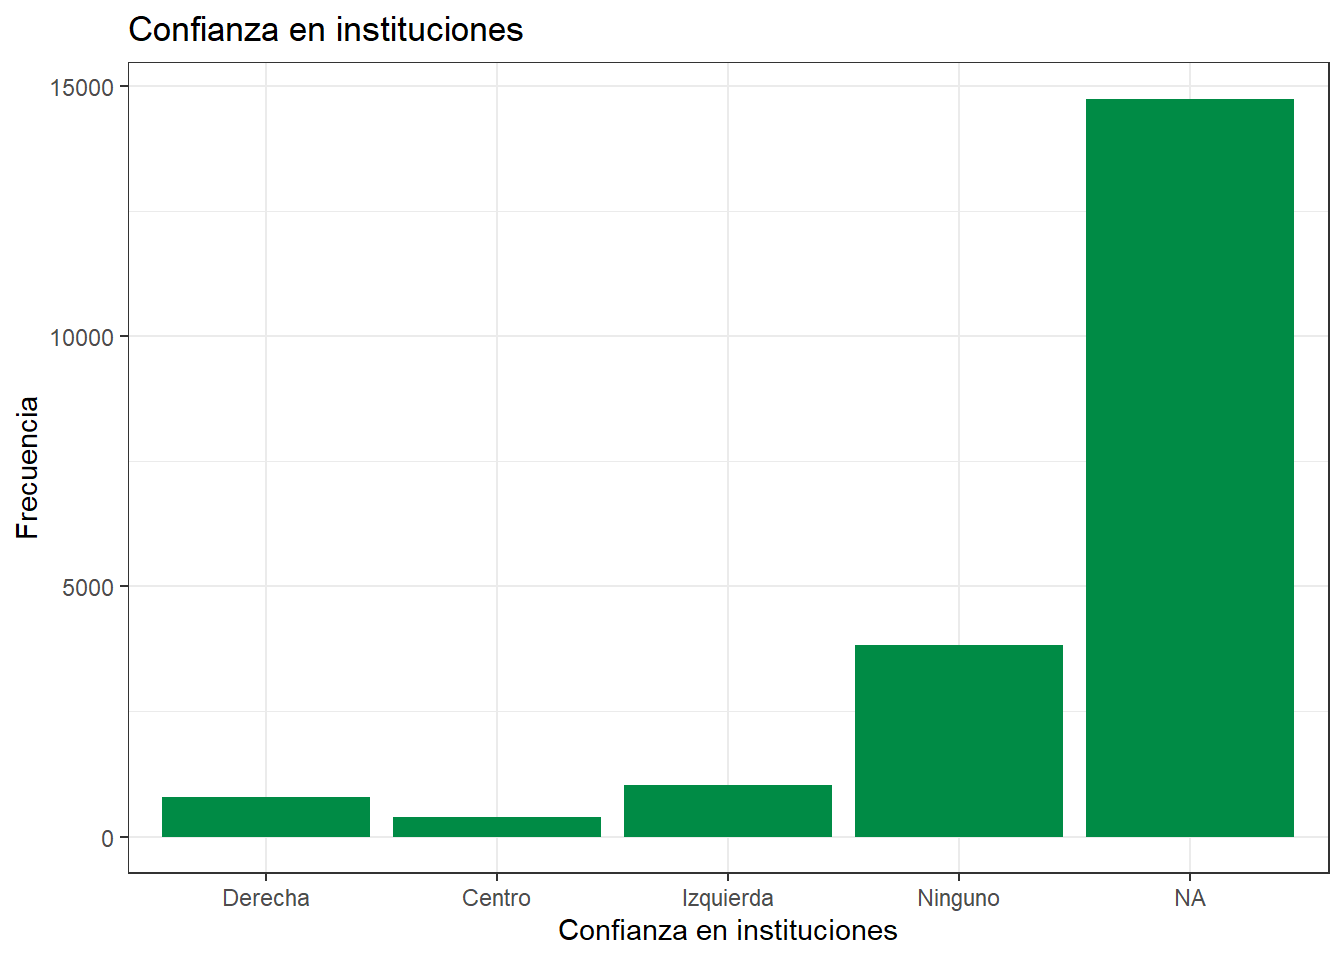
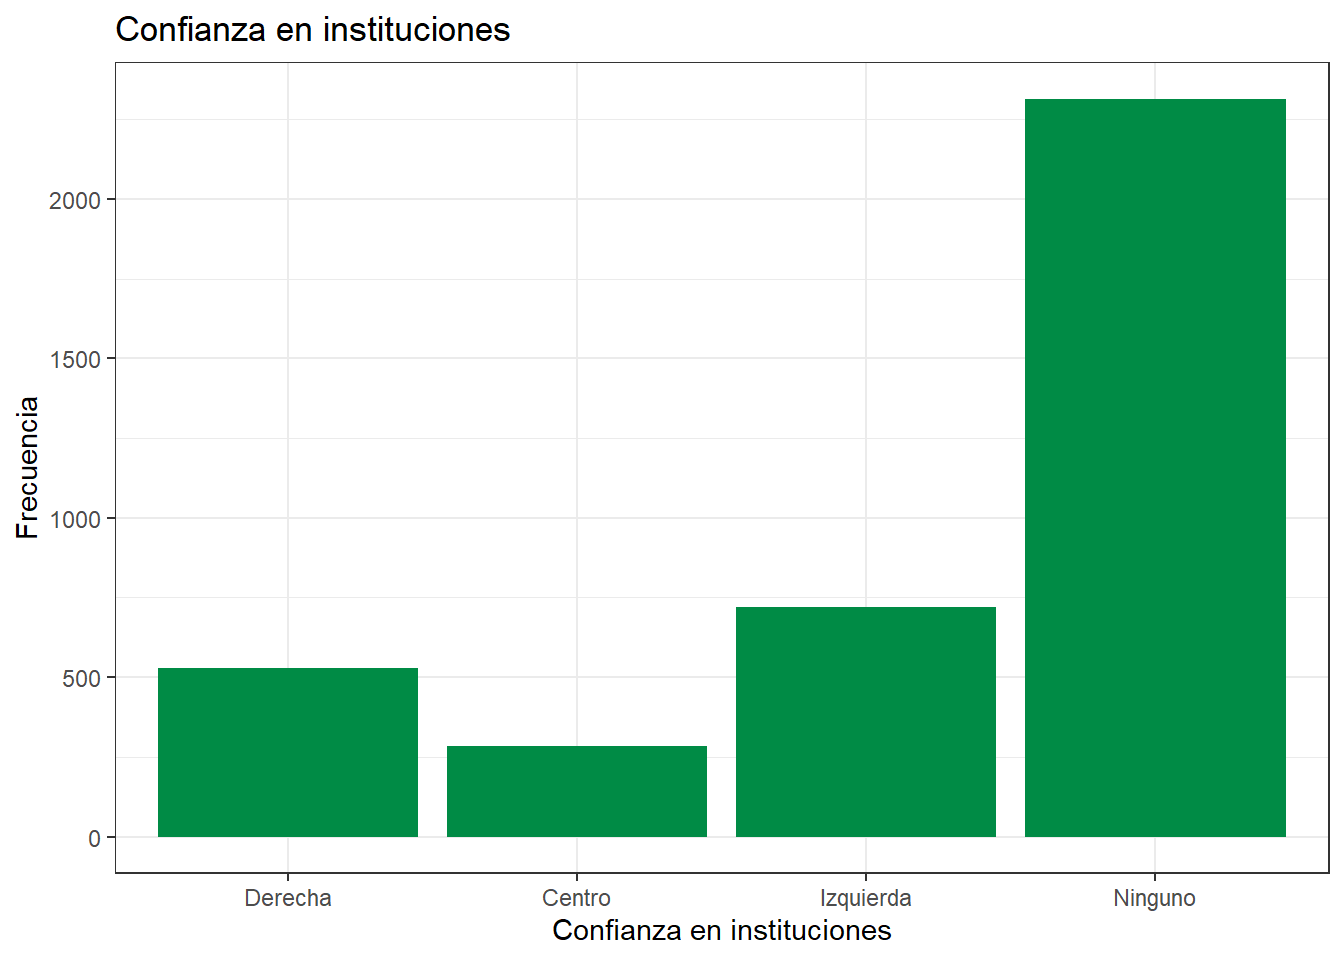
Colocar el Quarto Bonito
a

diff --git a/Trabajo_1.html b/Trabajo_1.html
@@ -8,7 +8,7 @@
 
 <meta name="author" content="Tomás Péndola y Erick Quezada">
 
-<title>Percpecion de Inseguridad Segun Orientacion Politica</title>
+<title>Percepcion de Inseguridad Segun Orientacion Politica</title>
 <style>
 code{white-space: pre-wrap;}
 span.smallcaps{font-variant: small-caps;}
@@ -50,7 +50,7 @@ ul.task-list li input[type="checkbox"] {
 
 <header id="title-block-header" class="quarto-title-block default">
 <div class="quarto-title">
-<h1 class="title">Percpecion de Inseguridad Segun Orientacion Politica</h1>
+<h1 class="title">Percepcion de Inseguridad Segun Orientacion Politica</h1>
 <p class="subtitle lead">R para el análisis de datos</p>
 </div>
 
@@ -82,16 +82,25 @@ ul.task-list li input[type="checkbox"] {
 
 <section id="introducción" class="level1">
 <h1>Introducción</h1>
-<p>En el presente trabajo se buscara analizar la percepción de inseguridad según la orientación política con la confianza en los medios, en el clima actual político Chileno donde la polarización aumenta más con los candidatos a presidente en futuras elecciones en una especie de precampaña muchos usan el tema de la seguridad como un elemento que debe atenderse con severidad y con celeridad, creemos que es importante preguntarse ¿Qué tanto incide en el percepciones de inseguridad según la orientación política y la confianza en los medios?</p>
-<p>Para este caso, se usaran datos extraidas de la base de datos del ELSOC de la ola del</p>
-<p>(Falta Ingresar Citas)</p>
+<p>En el contexto actual chileno, donde nos acercamos a las próximas elecciones presidenciales, se han intensificado los discursos mediáticos por parte de los distintos sectores políticos que buscan llegar al sillón presidencial en 2026. Múltiples debates, entrevistas y comentarios han comenzado a circular entre la población chilena, abordando tópicos troncales en las futuras agendas y dejando entrever distintas posturas ideológicas y pragmáticas frente a ellos.</p>
+<p>En este escenario, decidimos investigar una de las mayores preocupaciones de la ciudadanía. Tal como indica el estudio <em>Preocupaciones del Mundo</em> de la empresa de investigación Ipsos (2024), el sondeo arrojó que en Chile el tema del crimen y la violencia lidera la lista de preocupaciones con un 69%.</p>
+<p>Chile lleva tiempo enfrentando un drama importante en torno a este tópico, lo que se refleja en la amplia literatura existente, especialmente desde enfoques que lo abordan mediante variables sociodemográficas. Sin embargo, retomando el actual contexto electoral, nos interesa en particular analizar la incidencia de los medios de comunicación tradicionales, los cuales se encargan de divulgar las agendas de los candidatos y que, estos no solo informan sino que también ayudan a construir marcos interpretativos de la realidad desde una posicion aventajada (Van Djik, 2016). Al mismo tiempo, buscamos entender cómo se articula esta percepción de inseguridad en relación con la tendencia política de la ciudadanía.</p>
+<p>Al respecto, autores como Medina (2003) han señalado que aparentemente existe una relación directa entre poseer una posición más de derecha y el miedo al delito (p.&nbsp;11). Sin embargo, esta relación no implica necesariamente una causalidad, sino que podría estar enmarcada en un concepto más complejo de “percepción emocional”. Tal como indican Muratori y Zubieta (2015), la tendencia política influye en un conjunto de percepciones que terminan delegando en “problemáticas de relevancia social, como la inseguridad y el miedo al delito” (p.&nbsp;17).</p>
+<p>Es por ello que el presente trabajo buscará analizar la percepción de inseguridad según la orientación política y la confianza en los medios. Esto, enmarcado en el clima político actual chileno, donde la polarización entre los sectores políticos aumenta de cara a las próximas elecciones presidenciales. Por otro lado, en esta suerte de precampaña, muchos discursos mediáticos ofrecidos por los candidatos han puesto especial foco en el tema de la seguridad, presentándolo como un asunto que debe ser atendido cuanto antes. Consideramos, entonces, relevante comprender qué tanto inciden en la percepción de inseguridad variables como la orientación política y la confianza en los medios de comunicación, ya que planteamos como hipótesis que aquellos encuestados con una mayor tendencia política hacia la derecha y con niveles más altos de confianza en los medios tenderán a mantener mayores niveles de percepción de inseguridad.</p>
+<p>Para ello, se analizarán los datos recogidos por el COES a través de su estudio ELSOC del año 2023, centrando el análisis en las variables de “Orientación política”, “Confianza en los medios” y “Percepción de seguridad del barrio”. La elección de esta base responde a su carácter representativo a nivel nacional y a su solidez metodológica, lo que permite explorar con mayor profundidad las relaciones entre posicionamiento político, confianza institucional y percepciones subjetivas de inseguridad.</p>
 </section>
 <section id="variables" class="level1">
 <h1>Variables</h1>
-<p>En esta caso se usaran las variables orientacion politica (R13_ideol_01), confianza en medios (c05_12) y percecion de Seguridad del barrio (t10)</p>
-<p>Pero primero debemos cargar tanto los paquetes de los cuales aremos uso junto</p>
+<p>Como se mencionó anteriormente, las variables a utilizar serán las siguientes:</p>
+<ol type="1">
+<li>Posición Política (r13_ideol_01)</li>
+<li>Confianza en los medios de comunicación tradicionales (c05_12)</li>
+<li>Percepción de inseguridad en el barrio de residencia (t10_p).</li>
+</ol>
+<p>Para efectos prácticos, se modificaron las categorias de respuesta de la variable r13_ideol_01 en (Derecha, Centro, Izquierda, Ningúno).</p>
 <p>Esto lo podemos repetir para la carga de la base de datos y el procesamiento de los datos.</p>
-<p>Ahora con la base datos abierta procederemos a describr las variables que se usaran para este trabajo</p>
+<p>Ahora con la base datos abierta procederemos a describr las variables que se usaran para este trabajo, se procedera a Opercionalizar las variables</p>
+<p>Se Agrupan los no sabe no responde dentro de los NA y ahora se procederan a ser eliminados</p>
 <section id="descripción-de-variables" class="level2">
 <h2 class="anchored" data-anchor-id="descripción-de-variables">Descripción de variables</h2>
 <p>En este caso, se seleccionaron las variables:</p>
@@ -112,28 +121,23 @@ ul.task-list li input[type="checkbox"] {
 <tbody>
 <tr class="odd">
 <td style="text-align: left;">Derecha</td>
-<td style="text-align: right;">783</td>
-<td style="text-align: right;">3.77</td>
+<td style="text-align: right;">530</td>
+<td style="text-align: right;">13.77</td>
 </tr>
 <tr class="even">
 <td style="text-align: left;">Centro</td>
-<td style="text-align: right;">386</td>
-<td style="text-align: right;">1.86</td>
+<td style="text-align: right;">285</td>
+<td style="text-align: right;">7.40</td>
 </tr>
 <tr class="odd">
 <td style="text-align: left;">Izquierda</td>
-<td style="text-align: right;">1022</td>
-<td style="text-align: right;">4.92</td>
+<td style="text-align: right;">720</td>
+<td style="text-align: right;">18.70</td>
 </tr>
 <tr class="even">
 <td style="text-align: left;">Ninguno</td>
-<td style="text-align: right;">3819</td>
-<td style="text-align: right;">18.40</td>
-</tr>
-<tr class="odd">
-<td style="text-align: left;">NA</td>
-<td style="text-align: right;">14751</td>
-<td style="text-align: right;">71.05</td>
+<td style="text-align: right;">2315</td>
+<td style="text-align: right;">60.13</td>
 </tr>
 </tbody>
 </table>
@@ -146,155 +150,74 @@ ul.task-list li input[type="checkbox"] {
 <li>c05_12: Grado de Confianza: en los medios de comunicacion tradicionales</li>
 </ul>
 <div class="cell">
-<div class="cell-output cell-output-stdout">
-<pre><code>Percepcion de seguridad del barrio (x) &lt;numeric&gt; 
-# total N=20761 valid N=19602 mean=1.94 sd=36.86
+<div class="cell-output-display">
+<table class="table table-striped table-hover caption-top table-sm small" data-quarto-postprocess="true">
+<caption>Tabla de Descriptivos para la Confianza en los Medios</caption>
+<thead>
+<tr class="header">
+<th style="text-align: left;" data-quarto-table-cell-role="th">Variable</th>
+<th style="text-align: right;" data-quarto-table-cell-role="th">media</th>
+<th style="text-align: right;" data-quarto-table-cell-role="th">mediana</th>
+<th style="text-align: right;" data-quarto-table-cell-role="th">sd</th>
+<th style="text-align: right;" data-quarto-table-cell-role="th">min</th>
+<th style="text-align: right;" data-quarto-table-cell-role="th">max</th>
+<th style="text-align: right;" data-quarto-table-cell-role="th">n</th>
+</tr>
+</thead>
+<tbody>
+<tr class="odd">
+<td style="text-align: left;">c05_12</td>
+<td style="text-align: right;">2.26026</td>
+<td style="text-align: right;">2</td>
+<td style="text-align: right;">1.0549</td>
+<td style="text-align: right;">1</td>
+<td style="text-align: right;">5</td>
+<td style="text-align: right;">3850</td>
+</tr>
+</tbody>
+</table>
 
-Value |                                 Label |    N | Raw % | Valid % | Cum. %
--------------------------------------------------------------------------------
- -999 |                           No Responde |   11 |  0.05 |    0.06 |   0.06
- -888 |                               No Sabe |   14 |  0.07 |    0.07 |   0.13
- -777 |       Valor perdido por error tecnico |    0 |  0.00 |    0.00 |   0.13
- -666 | Valor perdido por encuesta incompleta |   10 |  0.05 |    0.05 |   0.18
-    1 |                          Muy inseguro |  919 |  4.43 |    4.69 |   4.87
-    2 |                              Inseguro | 2919 | 14.06 |   14.89 |  19.76
-    3 |                 Ni seguro ni inseguro | 3843 | 18.51 |   19.61 |  39.36
-    4 |                                Seguro | 9696 | 46.70 |   49.46 |  88.83
-    5 |                            Muy seguro | 2190 | 10.55 |   11.17 | 100.00
- &lt;NA&gt; |                                  &lt;NA&gt; | 1159 |  5.58 |    &lt;NA&gt; |   &lt;NA&gt;</code></pre>
+
 </div>
 </div>
 <ul>
 <li>t10: Percepcion de seguridad del barrio</li>
 </ul>
 <div class="cell">
-<div class="cell-output cell-output-stdout">
-<pre><code>Percepcion de seguridad del barrio (x) &lt;numeric&gt; 
-# total N=20761 valid N=19567 mean=3.48 sd=1.03
+<div class="cell-output-display">
+<table class="table table-striped table-hover caption-top table-sm small" data-quarto-postprocess="true">
+<caption>Tabla de Descriptivos para la Percepcion de Seguridad en el Barrio</caption>
+<thead>
+<tr class="header">
+<th style="text-align: left;" data-quarto-table-cell-role="th">Variable</th>
+<th style="text-align: right;" data-quarto-table-cell-role="th">media</th>
+<th style="text-align: right;" data-quarto-table-cell-role="th">mediana</th>
+<th style="text-align: right;" data-quarto-table-cell-role="th">sd</th>
+<th style="text-align: right;" data-quarto-table-cell-role="th">min</th>
+<th style="text-align: right;" data-quarto-table-cell-role="th">max</th>
+<th style="text-align: right;" data-quarto-table-cell-role="th">n</th>
+</tr>
+</thead>
+<tbody>
+<tr class="odd">
+<td style="text-align: left;">t10</td>
+<td style="text-align: right;">3.531948</td>
+<td style="text-align: right;">4</td>
+<td style="text-align: right;">1.008739</td>
+<td style="text-align: right;">1</td>
+<td style="text-align: right;">5</td>
+<td style="text-align: right;">3850</td>
+</tr>
+</tbody>
+</table>
 
-Value |                                 Label |    N | Raw % | Valid % | Cum. %
--------------------------------------------------------------------------------
- -999 |                           No Responde |    0 |  0.00 |    0.00 |   0.00
- -888 |                               No Sabe |    0 |  0.00 |    0.00 |   0.00
- -777 |       Valor perdido por error tecnico |    0 |  0.00 |    0.00 |   0.00
- -666 | Valor perdido por encuesta incompleta |    0 |  0.00 |    0.00 |   0.00
-    1 |                          Muy inseguro |  919 |  4.43 |    4.70 |   4.70
-    2 |                              Inseguro | 2919 | 14.06 |   14.92 |  19.61
-    3 |                 Ni seguro ni inseguro | 3843 | 18.51 |   19.64 |  39.25
-    4 |                                Seguro | 9696 | 46.70 |   49.55 |  88.81
-    5 |                            Muy seguro | 2190 | 10.55 |   11.19 | 100.00
- &lt;NA&gt; |                                  &lt;NA&gt; | 1194 |  5.75 |    &lt;NA&gt; |   &lt;NA&gt;</code></pre>
+
 </div>
 </div>
-<p>igualmente se armara una tabla de descriptivos de las variables lineares</p>
-<p>Iniciamos con la Variable de Grao de Confianza en los Medios de Comunicacion</p>
-<div class="cell">
-<div class="cell-output-display">
-<table class="caption-top table table-sm table-striped small">
-<caption>Tabla de Frecuencia de Confianza en los Medios de Comunicacion</caption>
-<thead>
-<tr class="header">
-<th style="text-align: right;">c05_12</th>
-<th style="text-align: right;">n</th>
-<th style="text-align: left;">percent</th>
-<th style="text-align: left;">valid_percent</th>
-</tr>
-</thead>
-<tbody>
-<tr class="odd">
-<td style="text-align: right;">1</td>
-<td style="text-align: right;">1350</td>
-<td style="text-align: left;">6.50%</td>
-<td style="text-align: left;">27.51%</td>
-</tr>
-<tr class="even">
-<td style="text-align: right;">2</td>
-<td style="text-align: right;">1462</td>
-<td style="text-align: left;">7.04%</td>
-<td style="text-align: left;">29.79%</td>
-</tr>
-<tr class="odd">
-<td style="text-align: right;">3</td>
-<td style="text-align: right;">1480</td>
-<td style="text-align: left;">7.13%</td>
-<td style="text-align: left;">30.16%</td>
-</tr>
-<tr class="even">
-<td style="text-align: right;">4</td>
-<td style="text-align: right;">470</td>
-<td style="text-align: left;">2.26%</td>
-<td style="text-align: left;">9.58%</td>
-</tr>
-<tr class="odd">
-<td style="text-align: right;">5</td>
-<td style="text-align: right;">145</td>
-<td style="text-align: left;">0.70%</td>
-<td style="text-align: left;">2.95%</td>
-</tr>
-<tr class="even">
-<td style="text-align: right;">NA</td>
-<td style="text-align: right;">15854</td>
-<td style="text-align: left;">76.36%</td>
-<td style="text-align: left;">-</td>
-</tr>
-</tbody>
-</table>
-</div>
-</div>
-<p>Ahora hacemos lo mismo con la variable de Percepcion de inseguridad en el Barrio</p>
-<div class="cell">
-<div class="cell-output-display">
-<table class="caption-top table table-sm table-striped small">
-<caption>Tabla de Frecuencia de Percepcion de Seguridad en el barrio</caption>
-<thead>
-<tr class="header">
-<th style="text-align: right;">t10</th>
-<th style="text-align: right;">n</th>
-<th style="text-align: left;">percent</th>
-<th style="text-align: left;">valid_percent</th>
-</tr>
-</thead>
-<tbody>
-<tr class="odd">
-<td style="text-align: right;">1</td>
-<td style="text-align: right;">919</td>
-<td style="text-align: left;">4.43%</td>
-<td style="text-align: left;">4.70%</td>
-</tr>
-<tr class="even">
-<td style="text-align: right;">2</td>
-<td style="text-align: right;">2919</td>
-<td style="text-align: left;">14.06%</td>
-<td style="text-align: left;">14.92%</td>
-</tr>
-<tr class="odd">
-<td style="text-align: right;">3</td>
-<td style="text-align: right;">3843</td>
-<td style="text-align: left;">18.51%</td>
-<td style="text-align: left;">19.64%</td>
-</tr>
-<tr class="even">
-<td style="text-align: right;">4</td>
-<td style="text-align: right;">9696</td>
-<td style="text-align: left;">46.70%</td>
-<td style="text-align: left;">49.55%</td>
-</tr>
-<tr class="odd">
-<td style="text-align: right;">5</td>
-<td style="text-align: right;">2190</td>
-<td style="text-align: left;">10.55%</td>
-<td style="text-align: left;">11.19%</td>
-</tr>
-<tr class="even">
-<td style="text-align: right;">NA</td>
-<td style="text-align: right;">1194</td>
-<td style="text-align: left;">5.75%</td>
-<td style="text-align: left;">-</td>
-</tr>
-</tbody>
-</table>
-</div>
-</div>
+</section>
+</section>
+<section id="graficos" class="level1">
+<h1>Graficos</h1>
 <div class="cell">
 <div class="cell-output-display">
 <div>
@@ -331,19 +254,10 @@ Value |                                 Label |    N | Raw % | Valid % | Cum. %
 </div>
 </div>
 </div>
-<div class="cell">
-<div class="cell-output-display">
-<div>
-<figure class="figure">
-<p><img src="Trabajo_1_files/figure-html/Grafico%20n°5%20confiaza%20x%20perp%20de%20confiaza%20en%20el%20barrrio-1.png" class="img-fluid figure-img" width="672"></p>
-</figure>
-</div>
-</div>
-</div>
-</section>
 </section>
 <section id="análisis" class="level1">
 <h1>Análisis</h1>
+<p>Sobre los gráficos bivariados, llama la atención la distribución que tiene la confianza en los medios de comunicación según la posición política de los encuestados ya que, si bien todos los sectores no tienden a superar el nivel 3 de confianza, los encuestados posicionados en tendencias de derecha comienzan la confianza en niveles más altos que el resto, donde además dentro del diagrama de cajas se observa la existencia de datos atípicos posicionados en el nivel de confianza más alto. Esto</p>
 </section>
 
 </main>
